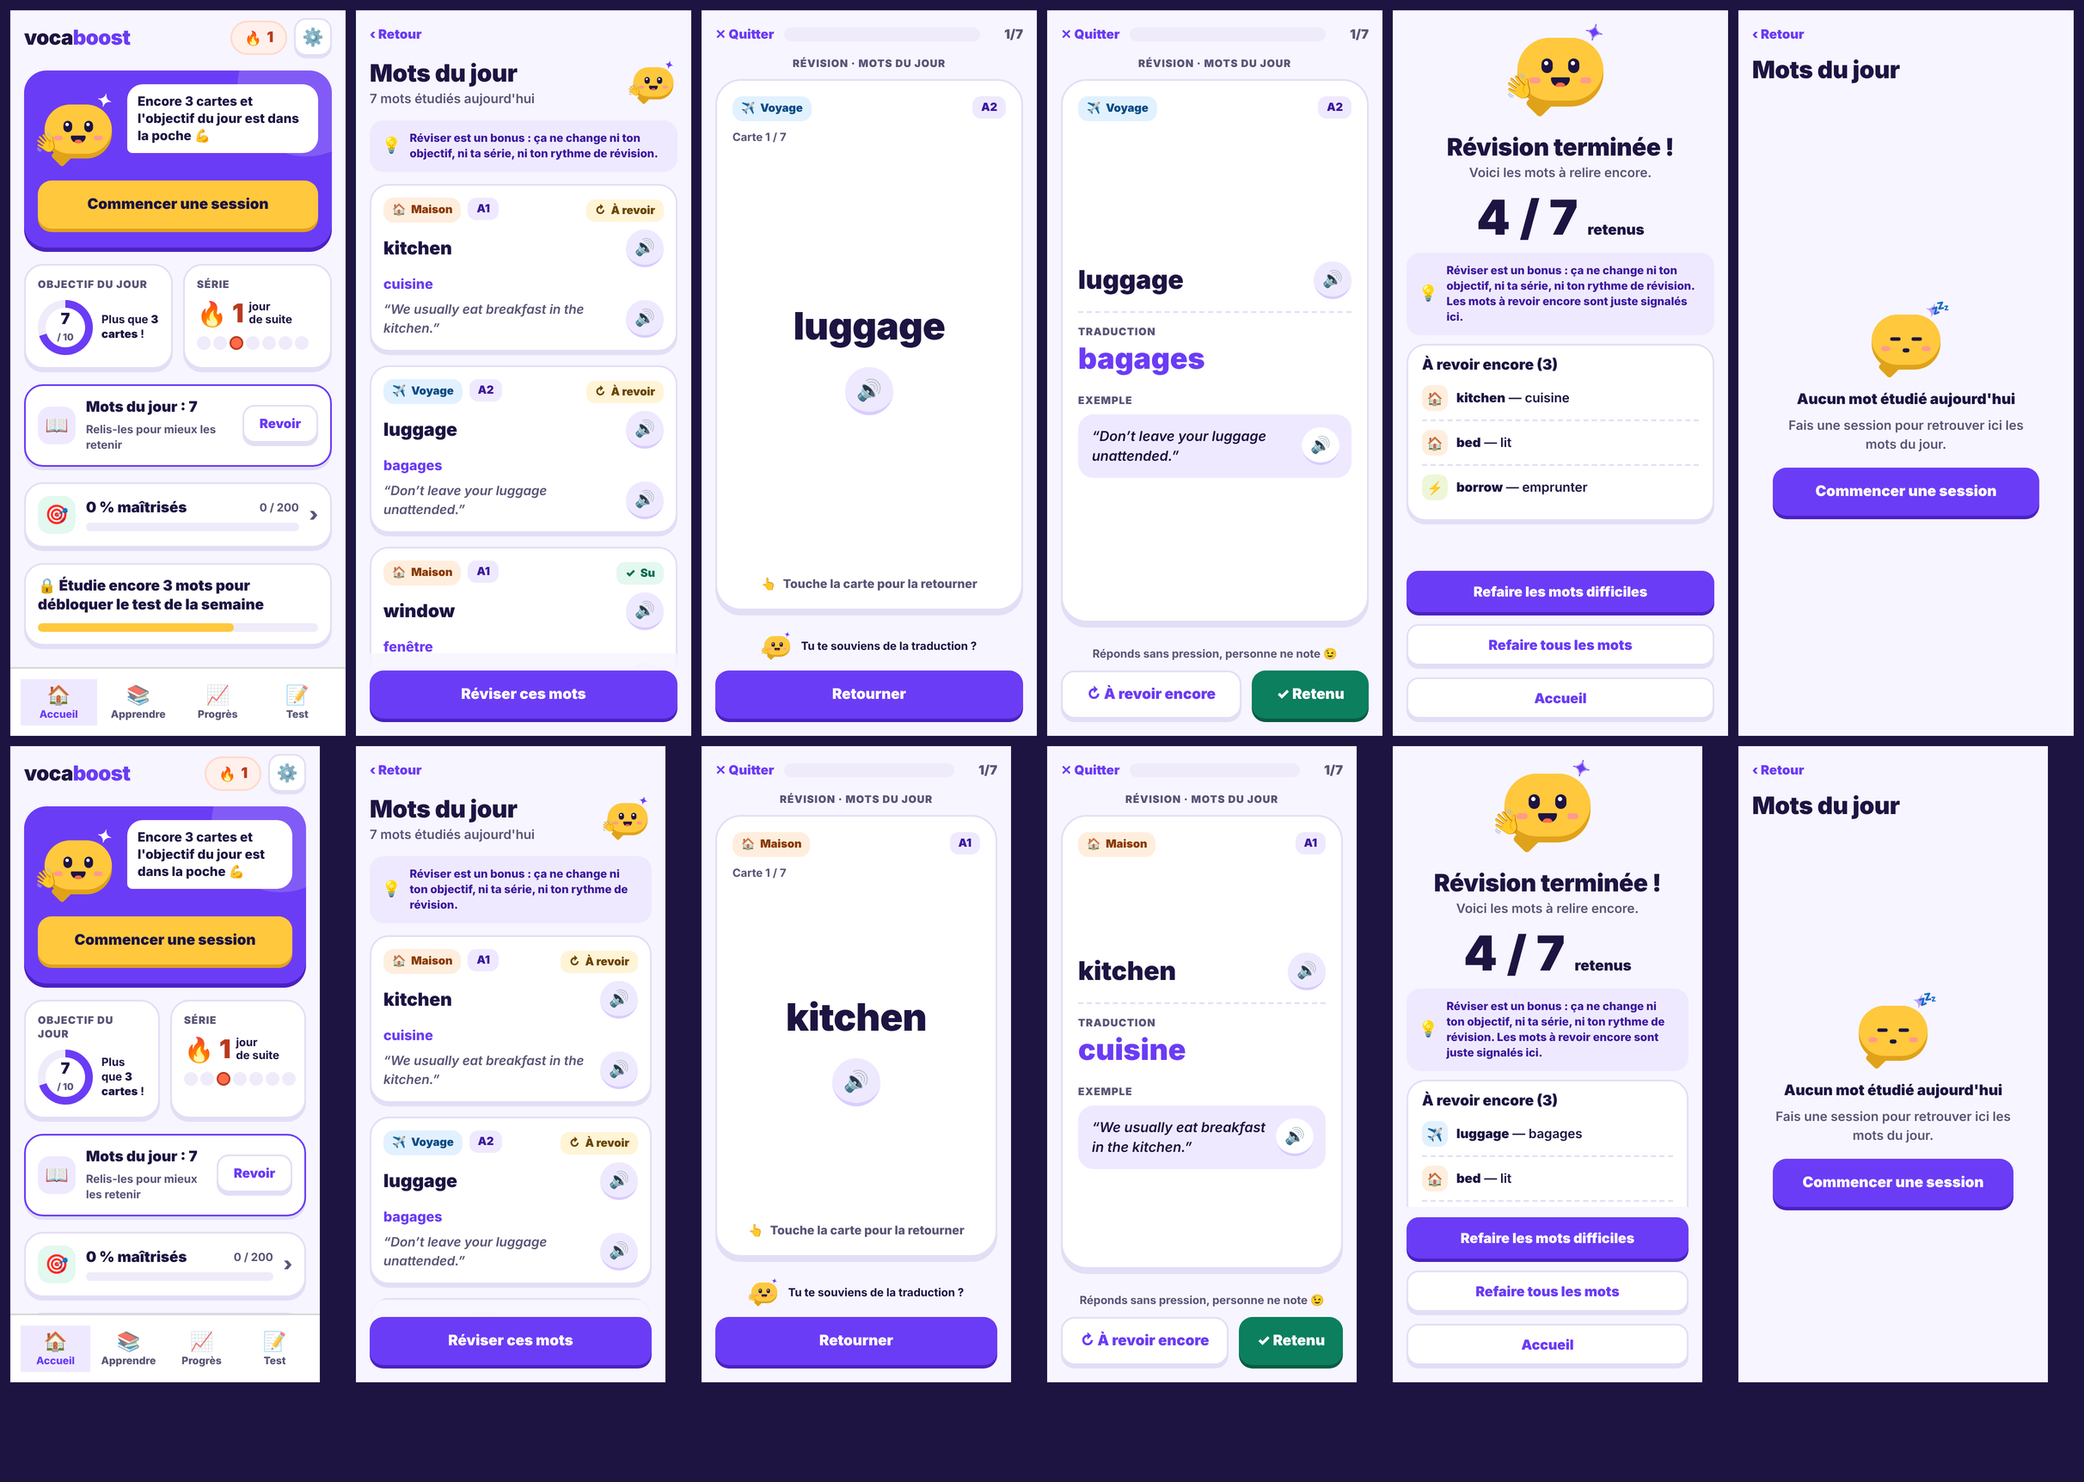
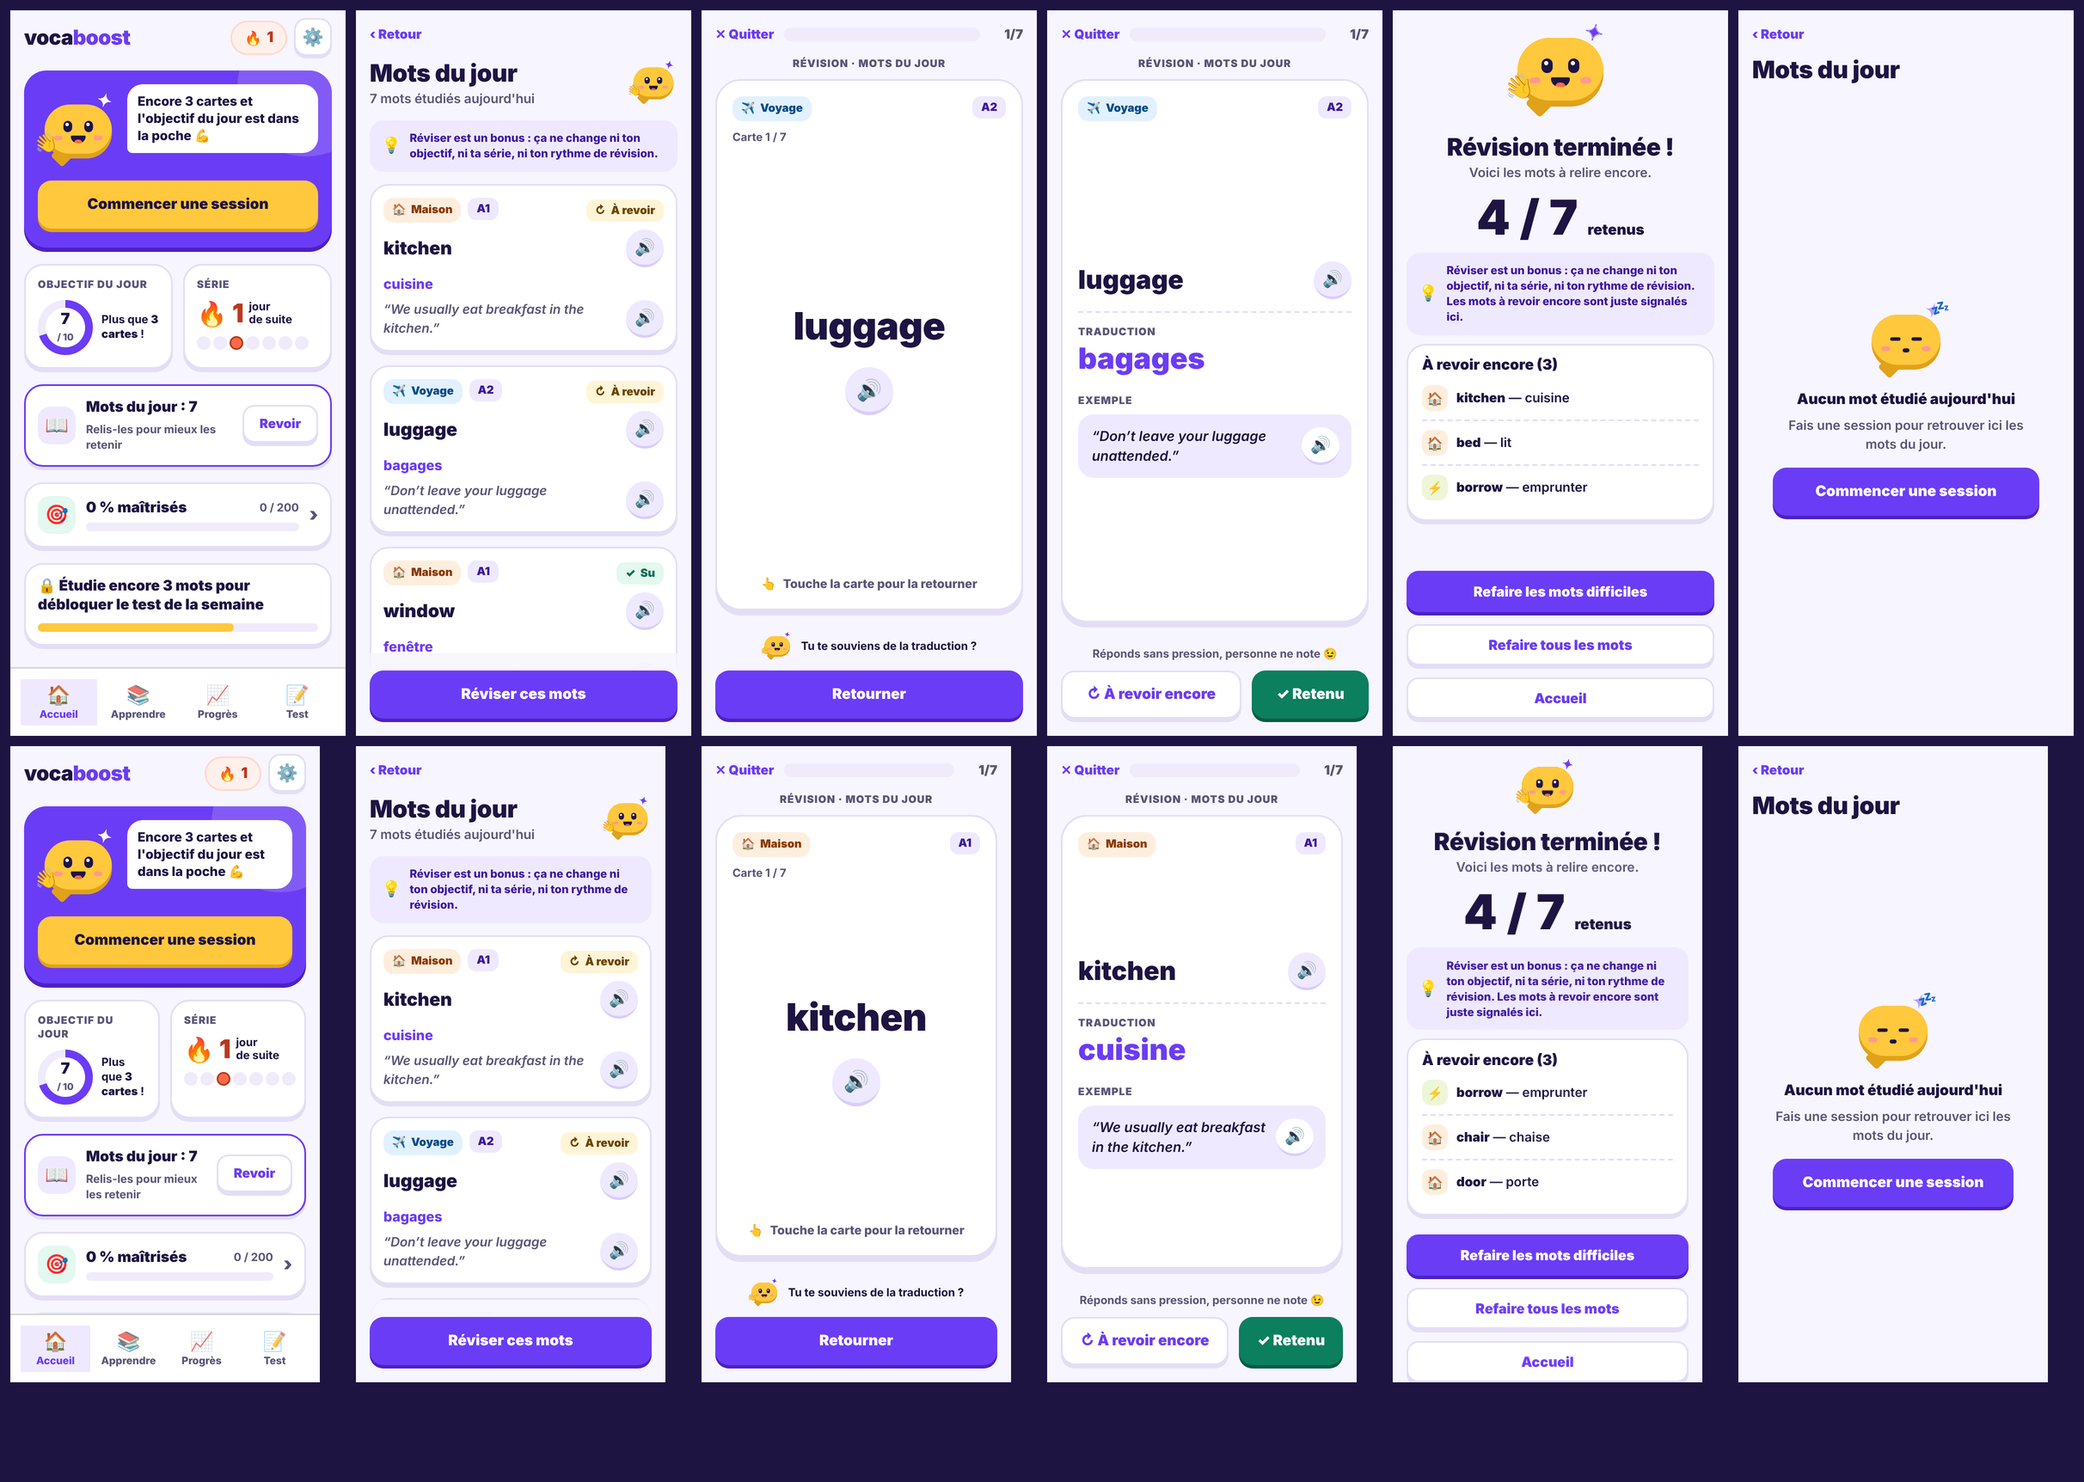
Corrections recette v1.1 (V11-01, 02, 03, 05) + approbation client
- Garde d'arrivée sur la passe de révision (double clic)
- Liste rafraîchie après minuit, passe calculée sur la date courante
- Fin de passe lisible sur petits écrans
- useReviewStore.clear appelé au démontage

Claude-Session: https://claude.ai/code/session_01CGZRqfc2qggkmJ9Nj1j6Xa

Changed region(s): [[0.6498, 0.5226, 0.8354, 0.9223]]

diff --git a/src/__tests__/qa-review.test.tsx b/src/__tests__/qa-review.test.tsx
@@ -2,6 +2,7 @@
  * Tests QA — recette v1.1 « Mots du jour » (docs/05-rapport-qa.md, « Recette v1.1 — Mots du jour »).
  * Intégrité (lecture seule), cas limites de la définition et bug V11-01 (double tap « Réviser ces mots »).
  */
+import { Dimensions } from 'react-native';
 import { act, fireEvent, renderRouter, screen } from 'expo-router/testing-library';
 
 import { WORDS } from '@/data/words';
@@ -106,7 +107,7 @@ describe('QA v1.1 — domaine : lecture seule et définition', () => {
 
 describe('QA v1.1 — double tap « Réviser ces mots » (V11-01)', () => {
   // Le tap résiduel d'un double tap tombe sur « Retourner » de la 1re carte (même emplacement, bas d'écran).
-  test.failing('le 2e tap d’un double tap sur « Réviser ces mots » ne doit pas retourner la 1re carte', async () => {
+  it('le 2e tap d’un double tap sur « Réviser ces mots » ne doit pas retourner la 1re carte', async () => {
     const t = new Date();
     WORDS.slice(0, 4).forEach((w) => useLearnerStore.getState().evaluateCard(w.id, true, t));
     await renderRouter(routes, { initialUrl: '/review' });
@@ -114,5 +115,71 @@ describe('QA v1.1 — double tap « Réviser ces mots » (V11-01)', () => {
     await fireEvent.press(screen.getByTestId('review-start'));
     await fireEvent.press(screen.getByTestId('review-flip')); // 2e tap, dans les 300 ms
     expect(screen.queryByTestId('review-retained')).toBeNull();
+  });
+});
+
+describe('Corrections recette v1.1 (V11-02, V11-03, V11-05)', () => {
+  const realNow = Date.now();
+  afterEach(() => {
+    jest.setSystemTime(realNow);
+  });
+
+  it('V11-02 : une liste laissée ouverte à minuit se vide d’elle-même (état vide, pas de passe de la veille)', async () => {
+    jest.setSystemTime(new Date(2026, 9, 7, 23, 58, 0));
+    WORDS.slice(0, 3).forEach((w) => useLearnerStore.getState().evaluateCard(w.id, true, new Date()));
+    await renderRouter(routes, { initialUrl: '/review' });
+    await waitGuard();
+    expect(screen.getByTestId('review-count')).toBeTruthy();
+    jest.setSystemTime(new Date(2026, 9, 8, 0, 0, 5));
+    await act(() => jest.advanceTimersByTime(3 * 60 * 1000));
+    expect(screen.getByTestId('review-empty')).toBeTruthy();
+    expect(screen.queryByTestId('review-start')).toBeNull();
+  });
+
+  it('V11-02 : « Réviser ces mots » recalcule sur la date courante et ne lance pas les mots de la veille', async () => {
+    jest.setSystemTime(new Date(2026, 9, 7, 23, 58, 0));
+    WORDS.slice(0, 3).forEach((w) => useLearnerStore.getState().evaluateCard(w.id, true, new Date()));
+    await renderRouter(routes, { initialUrl: '/review' });
+    await waitGuard();
+    jest.setSystemTime(new Date(2026, 9, 8, 0, 0, 5)); // minuit passé, minuteur pas encore déclenché
+    await fireEvent.press(screen.getByTestId('review-start'));
+    expect(useReviewStore.getState().pass).toBeNull();
+    expect(screen.queryByTestId('review-run-pending')).toBeNull();
+    expect(screen.queryByTestId('review-counter')).toBeNull();
+  });
+
+  it('V11-03 : à 320×568, la liste « À revoir encore » et les trois boutons sont dans la zone défilante', async () => {
+    const t = new Date();
+    WORDS.slice(0, 3).forEach((w) => useLearnerStore.getState().evaluateCard(w.id, true, t));
+    Dimensions.set({ window: { width: 320, height: 568, scale: 2, fontScale: 1 } });
+    try {
+      await renderRouter(routes, { initialUrl: '/review' });
+      await waitGuard();
+      await fireEvent.press(screen.getByTestId('review-start'));
+      for (const retained of [true, false, false]) {
+        await waitGuard();
+        await fireEvent.press(screen.getByTestId('review-flip'));
+        await waitGuard();
+        await fireEvent.press(screen.getByTestId(retained ? 'review-retained' : 'review-hard'));
+      }
+      expect(await screen.findByTestId('review-hard-list')).toBeTruthy();
+      for (const id of ['review-redo-hard', 'review-redo-all', 'review-home']) expect(screen.getByTestId(id)).toBeTruthy();
+    } finally {
+      Dimensions.set({ window: { width: 390, height: 844, scale: 2, fontScale: 1 } });
+    }
+  });
+
+  it('V11-05 : quitter la liste vide l’état éphémère de la révision', async () => {
+    const t = new Date();
+    WORDS.slice(0, 2).forEach((w) => useLearnerStore.getState().evaluateCard(w.id, true, t));
+    await renderRouter(routes, { initialUrl: '/review' });
+    await waitGuard();
+    await fireEvent.press(screen.getByTestId('review-start'));
+    expect(useReviewStore.getState().pass).not.toBeNull();
+    await waitGuard();
+    await fireEvent.press(screen.getByTestId('review-quit')); // retour à la liste : la passe reste en mémoire
+    await waitGuard();
+    await fireEvent.press(screen.getByTestId('review-back')); // sortie de la liste : état vidé
+    expect(useReviewStore.getState().pass).toBeNull();
   });
 });

diff --git a/src/app/review-result.tsx b/src/app/review-result.tsx
@@ -4,7 +4,7 @@
  */
 import { Redirect, router } from 'expo-router';
 import { useEffect, useRef } from 'react';
-import { AccessibilityInfo, StyleSheet, Text, View } from 'react-native';
+import { AccessibilityInfo, StyleSheet, Text, useWindowDimensions, View } from 'react-native';
 
 import { Button } from '@/components/Button';
 import { Card } from '@/components/Card';
@@ -17,6 +17,9 @@ import { useActionGuard, useArrivalGuard } from '@/hooks/useActionGuard';
 import { useReviewStore } from '@/store/useReviewStore';
 import { categoryColors, colors, MAX_FONT_MULTIPLIER, spacing, typography } from '@/theme/tokens';
 
+/** En dessous de cette hauteur (pt), les boutons ne sont plus fixés quand la liste est affichée. */
+const COMPACT_HEIGHT = 760;
+
 function goHome() {
   if (router.canDismiss()) router.dismissAll();
   router.navigate('/');
@@ -26,6 +29,7 @@ export default function ReviewResultScreen() {
   const current = useReviewStore((s) => s.pass);
   const justArrived = useArrivalGuard();
   const guard = useActionGuard();
+  const { height } = useWindowDimensions();
   // On garde la passe terminée affichée : « Refaire … » remplace le store avant que l'écran
   // ne soit démonté, sans le faire rediriger vers la liste.
   const finished = useRef<ReviewPass | null>(null);
@@ -53,10 +57,10 @@ export default function ReviewResultScreen() {
     router.replace('/review-run');
   };
 
-  return (
-    <Screen
-      contentStyle={styles.content}
-      footer={
+  // V11-03 : sur petit écran, avec la liste « À revoir encore », les boutons suivent la liste
+  // dans la zone défilante au lieu d'être fixés en bas (ils masqueraient la liste).
+  const compact = !allRetained && height < COMPACT_HEIGHT;
+  const actions = (
         <>
           {allRetained ? null : (
             <Button label="Refaire les mots difficiles" size="md" onPress={() => redo('hard')} testID="review-redo-hard" />
@@ -76,9 +80,11 @@ export default function ReviewResultScreen() {
             testID="review-home"
           />
         </>
-      }
-    >
-      <Vobi mood={allRetained ? 'correct' : 'hello'} size={120} animateIn />
+  );
+
+  return (
+    <Screen contentStyle={styles.content} footer={compact ? undefined : actions}>
+      <Vobi mood={allRetained ? 'correct' : 'hello'} size={compact ? 72 : 120} animateIn />
       <View style={styles.titles}>
         <Text style={styles.title} accessibilityRole="header" testID="review-result-title">
           {allRetained ? 'Bravo, tout est retenu' : 'Révision terminée !'}
@@ -126,12 +132,14 @@ export default function ReviewResultScreen() {
           })}
         </Card>
       )}
+      {compact ? <View style={styles.inlineActions}>{actions}</View> : null}
     </Screen>
   );
 }
 
 const styles = StyleSheet.create({
   content: { alignItems: 'center', gap: 10, paddingTop: spacing.md },
+  inlineActions: { alignSelf: 'stretch', gap: 10, marginTop: spacing.sm },
   titles: { alignItems: 'center', gap: 2 },
   title: { ...typography.h1, color: colors.ink, textAlign: 'center' },
   subtitle: { ...typography.body, color: colors.inkMuted, textAlign: 'center' },

diff --git a/src/app/review.tsx b/src/app/review.tsx
@@ -18,6 +18,8 @@ import type { DailyWord } from '@/domain/dailyWords';
 import { CATEGORY_LABELS } from '@/domain/types';
 import { useActionGuard, useArrivalGuard } from '@/hooks/useActionGuard';
 import { useClientReady } from '@/hooks/useClientReady';
+import { getTodayWords } from '@/domain/dailyWords';
+import { WORDS } from '@/data/words';
 import { useTodayWords } from '@/hooks/useLearnerSelectors';
 import { useNow } from '@/hooks/useNow';
 import { speakEnglish, stopSpeaking } from '@/services/speech';
@@ -61,12 +63,19 @@ function ReviewList() {
 
   useEffect(() => stopSpeaking, []);
 
+  // V11-05 : quitter la liste vide l'état éphémère de la passe (rien n'est persisté).
+  useEffect(() => () => useReviewStore.getState().clear(), []);
+
   const start = () => {
     if (justArrived() || guard.isLocked() || n === 0) return;
+    // V11-02 : l'instantané est pris sur la date courante, pas sur celle de l'affichage (minuit passé).
+    const progress = useLearnerStore.getState().progress;
+    const fresh = getTodayWords(WORDS, progress, new Date());
+    if (fresh.length === 0) return; // minuit passé : plus de mot du jour, la liste se rafraîchit seule
     guard.lock();
     useReviewStore.getState().startDaily(
-      items.map((i) => i.word),
-      useLearnerStore.getState().progress,
+      fresh.map((i) => i.word),
+      progress,
     );
     router.push('/review-run');
   };

diff --git a/src/app/review-run.tsx b/src/app/review-run.tsx
@@ -14,7 +14,7 @@ import { ProgressBar } from '@/components/ProgressBar';
 import { Vobi } from '@/components/Vobi';
 import { currentCard } from '@/domain/dailyWords';
 import { CATEGORY_LABELS } from '@/domain/types';
-import { useActionGuard } from '@/hooks/useActionGuard';
+import { useActionGuard, useArrivalGuard } from '@/hooks/useActionGuard';
 import { useClientReady } from '@/hooks/useClientReady';
 import { useReduceMotion } from '@/hooks/useReduceMotion';
 import { speakEnglish, stopSpeaking } from '@/services/speech';
@@ -42,6 +42,7 @@ function ReviewRun() {
   const reduceMotion = useReduceMotion();
   const { fontScale } = useWindowDimensions();
   const guard = useActionGuard();
+  const justArrived = useArrivalGuard();
   const { lock } = guard;
   const slide = useRef(new Animated.Value(1)).current;
   const handledIndex = useRef(-1);
@@ -75,10 +76,11 @@ function ReviewRun() {
   }, [finished]);
 
   const flip = useCallback(() => {
-    if (flipped || guard.isLocked()) return;
+    // V11-01 : le 2e tap d'un double tap sur « Réviser ces mots » ne doit pas retourner la carte 1.
+    if (flipped || justArrived() || guard.isLocked()) return;
     setFlipped(true);
     lock();
-  }, [flipped, guard, lock]);
+  }, [flipped, guard, lock, justArrived]);
 
   const choose = (retained: boolean) => {
     if (!flipped || !word || guard.isLocked() || handledIndex.current === index) return;

diff --git a/src/hooks/useNow.ts b/src/hooks/useNow.ts
@@ -22,5 +22,12 @@ export function useNow(): Date {
     return () => subscription.remove();
   }, []);
 
+  // Écran laissé ouvert à minuit (V11-02) : on se réveille juste après le prochain minuit local.
+  useEffect(() => {
+    const next = new Date(now.getFullYear(), now.getMonth(), now.getDate() + 1, 0, 0, 0, 50);
+    const timer = setTimeout(() => setNow(new Date()), Math.max(next.getTime() - now.getTime(), 1000));
+    return () => clearTimeout(timer);
+  }, [now]);
+
   return now;
 }

diff --git a/docs/04-implementation.md b/docs/04-implementation.md
@@ -211,3 +211,17 @@ Source : `docs/02-spec-pm.md` §10 à §15, `docs/03-design.md` « v1.1 », `doc
 - À 360×740, la fin de passe avec 3 mots à revoir fait défiler la carte « À revoir encore » sous les boutons fixés (contenu défilant, comportement prévu au design pour N grand).
 - La barre de progression d'une passe n'a le minimum visible de 6 % qu'à partir de 50 cartes (à N petit elle part vide, comme en session).
 - Non vérifié sur appareil réel (iOS / Android, TTS) : seulement Jest (expo-speech simulé) et Chromium.
+
+## Corrections recette v1.1
+
+Suite à la « Recette v1.1 — Mots du jour » (docs/05-rapport-qa.md). Aucune migration, aucune dépendance, lecture seule de la révision préservée.
+
+| Bug | Correction | Fichier |
+|---|---|---|
+| V11-01 | `useArrivalGuard` dans `flip` : tout tap sur la carte ou « Retourner » est ignoré ~300 ms après l'arrivée sur la passe (double tap sur « Réviser ces mots » / « Refaire les mots difficiles »). Le `test.failing` de `qa-review.test.tsx` est devenu un test normal. | `src/app/review-run.tsx` |
+| V11-02 | `useNow` programme un réveil juste après le prochain minuit local : la liste se vide d'elle-même. En plus, « Réviser ces mots » recalcule `getTodayWords(…, new Date())` : l'instantané figé au démarrage (spec) est pris sur la date courante ; si plus aucun mot, rien ne démarre. | `src/hooks/useNow.ts`, `src/app/review.tsx` |
+| V11-03 | Fin de passe : sous 760 pt de hauteur, avec la liste « À revoir encore », les boutons suivent la liste dans la zone défilante (Vobi 72) au lieu d'être fixés ; au-dessus, comportement inchangé. La liste n'est plus masquée à 360×740 ni 320×568. L'écran liste n'a pas de carte « À revoir encore » : seule l'indication sur les lignes, sans changement. | `src/app/review-result.tsx` |
+| V11-05 | La liste appelle `useReviewStore.clear()` à son démontage (sortie vers l'Accueil, état vide) ; la passe reste en mémoire pendant les allers-retours liste/passe. | `src/app/review.tsx` |
+| V11-04 | **Non corrigé, documenté** : react-native-web ignore `importantForAccessibility` / `accessibilityElementsHidden` ; correction fiable seulement avec des essais VoiceOver/TalkBack (non disponibles), donc laissée en réserve. | `src/components/DailyWordRow.tsx` |
+
+Tests ajoutés (`qa-review.test.tsx`) : minuit (liste vide d'elle-même), « Réviser » après minuit sans passe de la veille, fin de passe à 320×568, vidage à la sortie. `docs/design/rendu-revision.png` : écran de fin à 360×740 régénéré.

diff --git a/docs/01-brief-client.md b/docs/01-brief-client.md
@@ -50,3 +50,7 @@ Points mineurs connus et acceptés : RT-02 (boutons grisés 300 ms au retourneme
 ✅ **Approuvée** (rôle Client) : DA v2 intégrée, recette QA « prête » (aucun bug critique ou majeur ouvert).
 Points mineurs connus et acceptés : RT2-01 (boutons d'évaluation sur 2 lignes sous ~340 pt), RT2-02 (tap ignoré juste après une garde d'arrivée).
 Toujours à faire avant publication : passage sur appareils iOS et Android réels.
+
+## Approbation — v1.1 « Mots du jour »
+✅ **Approuvée** (rôle Client) : recette QA « prête », aucun bug critique ou majeur ouvert.
+Point mineur connu et accepté : V11-04 (accessibilité des lignes de la liste avec un lecteur d'écran sur le web, à vérifier sur appareil réel).
